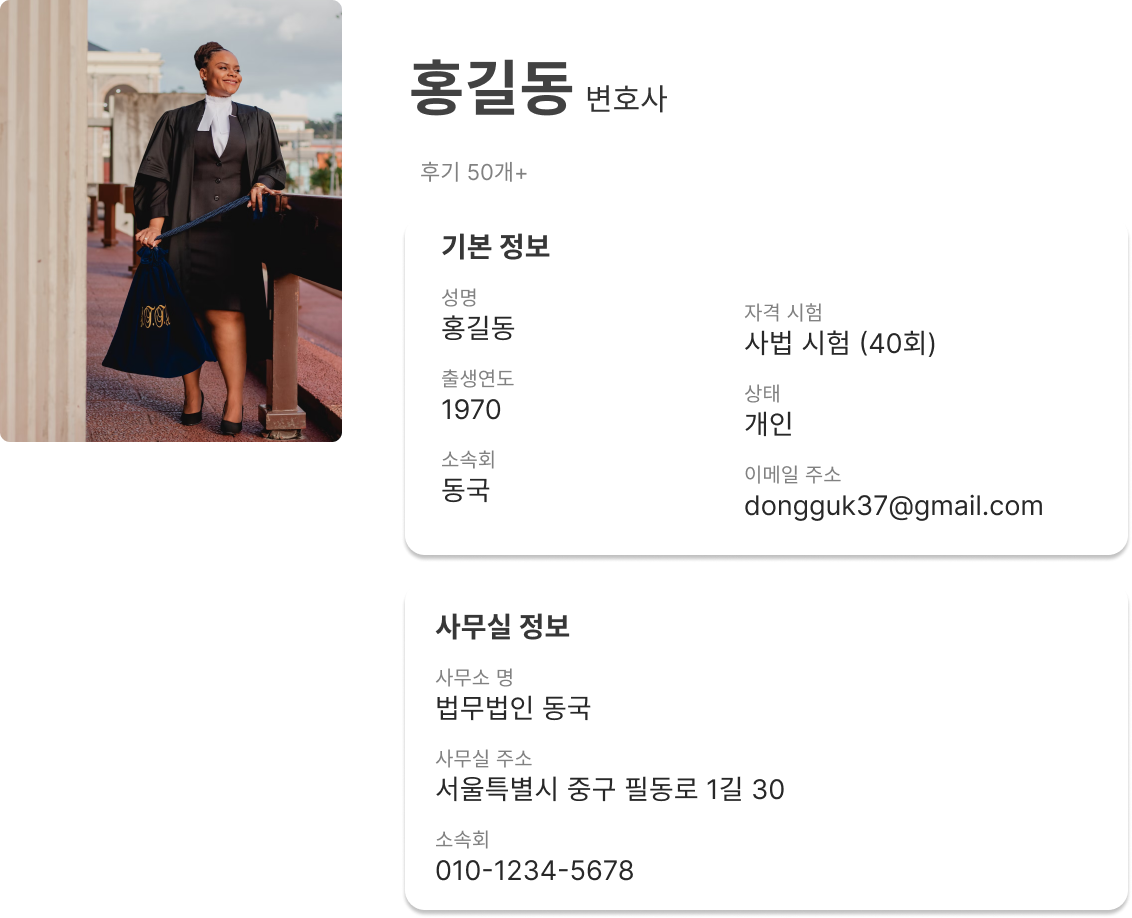
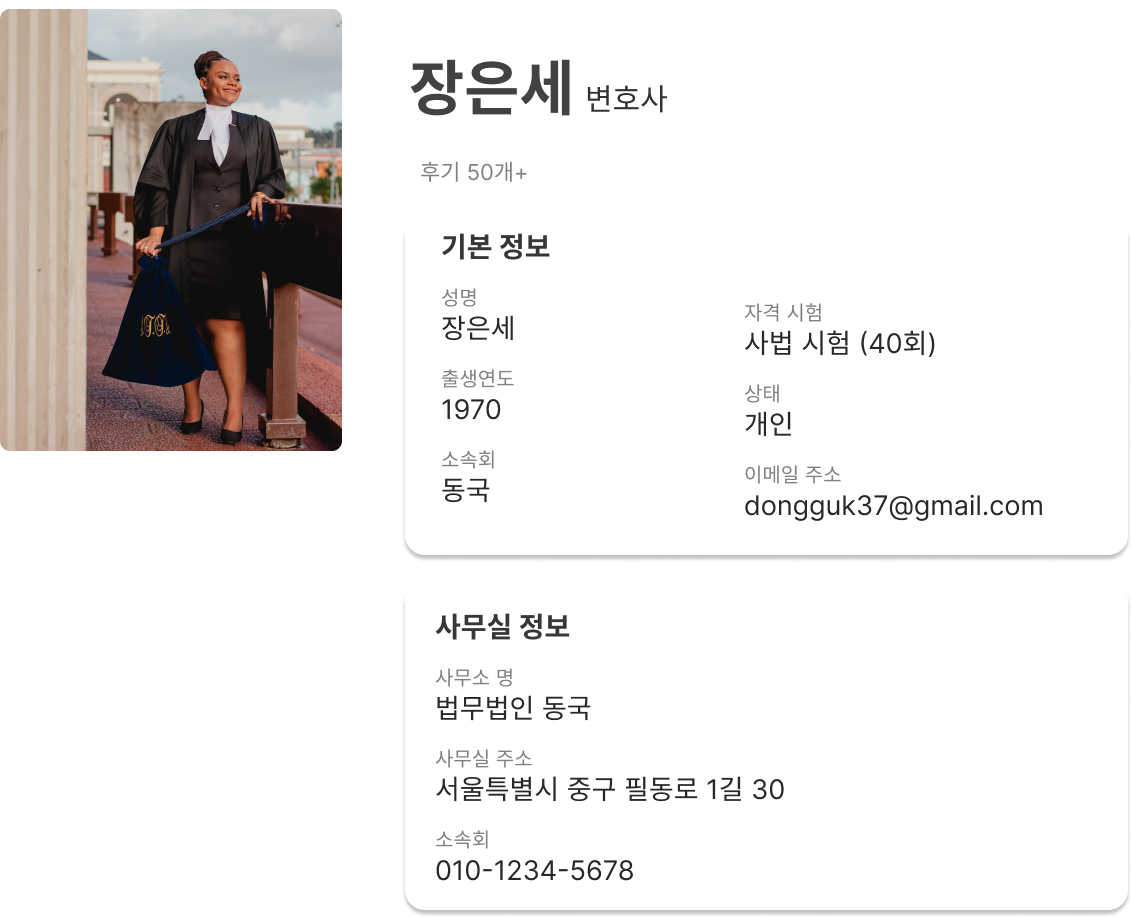
Lawyer 페이지 추가 구현 (프로필, 게시판)

diff --git a/front/src/pages/Lawyer/Lawyer_profile2.js b/front/src/pages/Lawyer/Lawyer_profile2.js
@@ -1,0 +1,77 @@
+import React from "react";
+import styled from "styled-components";
+
+import lawyerProfile2 from "../../assets/img/lawyerProfile2.png";
+import lawyerBackgroundImg from "../../assets/img/lawyerBackgroundImg.png";
+import star from "../../assets/img/StarColor.png";
+
+const Star = styled.img`
+  position: absolute;
+  top: 420px;
+  right: 285px;
+  cursor: pointer;
+  width: 55px;
+
+  :active {
+    opacity: 0.3;
+  }
+`;
+
+const Background = styled.body`
+background-color: #FFFCF2;
+padding-bottom: 100px;
+min-height:100%
+height: auto;
+`;
+
+const LawyerBackgroundImg = styled.img`
+  width: 100%;
+  height: 400px;
+  opacity: 0.2;
+  margin: 98px 0 0 0;
+`;
+
+const ProfileContainer = styled.div`
+  z-index: 1;
+  top: 300px;
+  text-align: center;
+  display: flex;
+  justify-content: center;
+  width: 100%;
+  height: 1130px;
+`;
+
+const LawyerProfile = styled.img`
+  position: absolute;
+  top: 300px;
+  width: 1000px;
+`;
+
+const TextMessage = styled.div`
+  top: 710px;
+  position: absolute;
+  font-family: "Inter";
+  font-style: normal;
+  font-weight: 400;
+  font-size: 18px;
+  left: 280px;
+  line-height: 30px;
+  text-decoration: underline;
+  color: #939393;
+  cursor: pointer;
+`;
+
+function Lawyer_profile() {
+  return (
+    <Background>
+      <ProfileContainer>
+        <LawyerBackgroundImg src={lawyerBackgroundImg} />
+        <LawyerProfile src={lawyerProfile2} />
+        <TextMessage>빠른 상담을 위해 메시지 보내기</TextMessage>
+        <Star src={star} />
+      </ProfileContainer>
+    </Background>
+  );
+}
+
+export default Lawyer_profile;

diff --git a/front/src/pages/Lawyer/Lawyer_profile3.js b/front/src/pages/Lawyer/Lawyer_profile3.js
@@ -1,0 +1,77 @@
+import React from "react";
+import styled from "styled-components";
+
+import lawyerProfile3 from "../../assets/img/lawyerProfile3.png";
+import lawyerBackgroundImg from "../../assets/img/lawyerBackgroundImg.png";
+import star from "../../assets/img/StarColor.png";
+
+const Star = styled.img`
+  position: absolute;
+  top: 420px;
+  right: 285px;
+  cursor: pointer;
+  width: 55px;
+
+  :active {
+    opacity: 0.3;
+  }
+`;
+
+const Background = styled.body`
+background-color: #FFFCF2;
+padding-bottom: 100px;
+min-height:100%
+height: auto;
+`;
+
+const LawyerBackgroundImg = styled.img`
+  width: 100%;
+  height: 400px;
+  opacity: 0.2;
+  margin: 98px 0 0 0;
+`;
+
+const ProfileContainer = styled.div`
+  z-index: 1;
+  top: 300px;
+  text-align: center;
+  display: flex;
+  justify-content: center;
+  width: 100%;
+  height: 1130px;
+`;
+
+const LawyerProfile = styled.img`
+  position: absolute;
+  top: 300px;
+  width: 1000px;
+`;
+
+const TextMessage = styled.div`
+  top: 710px;
+  position: absolute;
+  font-family: "Inter";
+  font-style: normal;
+  font-weight: 400;
+  font-size: 18px;
+  left: 280px;
+  line-height: 30px;
+  text-decoration: underline;
+  color: #939393;
+  cursor: pointer;
+`;
+
+function Lawyer_profile() {
+  return (
+    <Background>
+      <ProfileContainer>
+        <LawyerBackgroundImg src={lawyerBackgroundImg} />
+        <LawyerProfile src={lawyerProfile3} />
+        <TextMessage>빠른 상담을 위해 메시지 보내기</TextMessage>
+        <Star src={star} />
+      </ProfileContainer>
+    </Background>
+  );
+}
+
+export default Lawyer_profile;

diff --git a/front/src/pages/Lawyer/Lawyer_profile4.js b/front/src/pages/Lawyer/Lawyer_profile4.js
@@ -1,0 +1,77 @@
+import React from "react";
+import styled from "styled-components";
+
+import lawyerProfile4 from "../../assets/img/lawyerProfile4.png";
+import lawyerBackgroundImg from "../../assets/img/lawyerBackgroundImg.png";
+import star from "../../assets/img/StarColor.png";
+
+const Star = styled.img`
+  position: absolute;
+  top: 420px;
+  right: 285px;
+  cursor: pointer;
+  width: 55px;
+
+  :active {
+    opacity: 0.3;
+  }
+`;
+
+const Background = styled.body`
+background-color: #FFFCF2;
+padding-bottom: 100px;
+min-height:100%
+height: auto;
+`;
+
+const LawyerBackgroundImg = styled.img`
+  width: 100%;
+  height: 400px;
+  opacity: 0.2;
+  margin: 98px 0 0 0;
+`;
+
+const ProfileContainer = styled.div`
+  z-index: 1;
+  top: 300px;
+  text-align: center;
+  display: flex;
+  justify-content: center;
+  width: 100%;
+  height: 1130px;
+`;
+
+const LawyerProfile = styled.img`
+  position: absolute;
+  top: 300px;
+  width: 1000px;
+`;
+
+const TextMessage = styled.div`
+  top: 710px;
+  position: absolute;
+  font-family: "Inter";
+  font-style: normal;
+  font-weight: 400;
+  font-size: 18px;
+  left: 280px;
+  line-height: 30px;
+  text-decoration: underline;
+  color: #939393;
+  cursor: pointer;
+`;
+
+function Lawyer_profile() {
+  return (
+    <Background>
+      <ProfileContainer>
+        <LawyerBackgroundImg src={lawyerBackgroundImg} />
+        <LawyerProfile src={lawyerProfile4} />
+        <TextMessage>빠른 상담을 위해 메시지 보내기</TextMessage>
+        <Star src={star} />
+      </ProfileContainer>
+    </Background>
+  );
+}
+
+export default Lawyer_profile;

diff --git a/front/src/App.js b/front/src/App.js
@@ -31,6 +31,9 @@ import WillWriting_complete2 from "./pages/WillWriting/WillWriting_complete2";
 //변호사 찾기
 import Lawyer from "./pages/Lawyer/Lawyer";
 import Lawyer_profile from "./pages/Lawyer/Lawyer_profile";
+import Lawyer_profile2 from "./pages/Lawyer/Lawyer_profile2";
+import Lawyer_profile3 from "./pages/Lawyer/Lawyer_profile3";
+import Lawyer_profile4 from "./pages/Lawyer/Lawyer_profile4";
 //게시판
 import Question from "./pages/Question/Question";
 import Question_detail from "./pages/Question/Question_detail";
@@ -86,6 +89,9 @@ function App() {
           />
           <Route path="Lawyer" element={<Lawyer />} />
           <Route path="Lawyer_profile" element={<Lawyer_profile />} />
+          <Route path="Lawyer_profile2" element={<Lawyer_profile2 />} />
+          <Route path="Lawyer_profile3" element={<Lawyer_profile3 />} />
+          <Route path="Lawyer_profile4" element={<Lawyer_profile4 />} />
           <Route path="Question" element={<Question />} />
           <Route path="Question_detail" element={<Question_detail />} />
           <Route path="Mypage" element={<Mypage />} />

diff --git a/front/src/pages/Question/Question.js b/front/src/pages/Question/Question.js
@@ -3,9 +3,10 @@ import styled from "styled-components";
 
 import questionBackground from "../../assets/img/questionBackground.png";
 import questionLogo from "../../assets/img/questionLogo.png";
+import lawyerBoard from "../../assets/img/lawyerBoard.png";
 
 const Background = styled.body`
-background-color: #F5F5F5;
+background-color: #ffffff;
 padding-bottom: 100px;
 min-height:100%
 height: auto;
@@ -33,6 +34,25 @@ const QuestionLogo = styled.img`
   top: 220px;
 `;
 
+const Container = styled.div`
+  align-items: center;
+  display: flex;
+  flex-direction: column;
+  min-height: 100%;
+  padding: 80px 0 0 0;
+  background: #f;
+`;
+
+const Board = styled.div`
+  width: 80%;
+  height: 100px;
+  border: 2px solid blue;
+`;
+
+const LawyerBoard = styled.img`
+  width: 900px;
+`;
+
 function Question() {
   return (
     <Background>
@@ -40,6 +60,9 @@ function Question() {
         <QuestionLogo src={questionLogo} />
       </LogoContainer>
       <QuestionBackground src={questionBackground} />
+      <Container>
+        <LawyerBoard src={lawyerBoard} />
+      </Container>
     </Background>
   );
 }

diff --git a/front/src/pages/WillSearch/WillSearch_nonefind.js b/front/src/pages/WillSearch/WillSearch_nonefind.js
@@ -61,6 +61,37 @@ const SearchLogo = styled.img`
   width: 400px;
 `;
 
+const ButtonContainer = styled.div`
+  width: 100%;
+  align-items: center;
+  display: flex;
+  flex-direction: column;
+
+  width: 770px;
+  height: 80px;
+`;
+
+const Button = styled.button`
+  font-family: "Inter";
+  font-style: normal;
+  font-weight: 900;
+  font-size: 17px;
+  line-height: 18px;
+  text-align: center;
+
+  color: #000000;
+
+  border: 1px solid #ffffff;
+  background: #ffffff;
+  box-shadow: 0px 4px 4px rgba(0, 0, 0, 0.25);
+  border-radius: 6px;
+  padding: 7px;
+  margin: 12px;
+  width: 120px;
+  height: 45px;
+  cursor: pointer;
+`;
+
 function WillSearch() {
   return (
     <Background>
@@ -92,6 +123,13 @@ function WillSearch() {
         <br />
         <br />
         <WritingFindImg src={writingNoFindImg} />
+        <br />
+        <br />
+        <ButtonContainer>
+          <Button onClick={() => (window.location.href = "/WillSearch")}>
+            뒤로가기
+          </Button>
+        </ButtonContainer>
       </Container>
     </Background>
   );

diff --git a/front/src/pages/Lawyer/Lawyer.js b/front/src/pages/Lawyer/Lawyer.js
@@ -245,15 +245,15 @@ function Lawyer() {
           />
           <LawyerImg
             src={lawyerImg2}
-            onClick={() => (window.location.href = "/Lawyer_profile")}
+            onClick={() => (window.location.href = "/Lawyer_profile2")}
           />
           <LawyerImg
             src={lawyerImg3}
-            onClick={() => (window.location.href = "/Lawyer_profile")}
+            onClick={() => (window.location.href = "/Lawyer_profile4")}
           />
           <LawyerImg
             src={lawyerImg4}
-            onClick={() => (window.location.href = "/Lawyer_profile")}
+            onClick={() => (window.location.href = "/Lawyer_profile3")}
           />
         </LawyerImgContinaer>
         <br />
